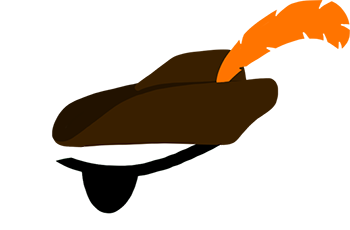
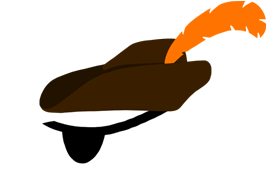
Lizard: Updated lizard graphics and animation

diff --git a/src/js/states/subgames/LizardJungleGame.js b/src/js/states/subgames/LizardJungleGame.js
@@ -349,6 +349,7 @@ LizardJungleGame.prototype.modeOutro = function () {
 	t.addCallback(this.nextRound, null, null, this);
 };
 
+
 /*MMMMMMMMMMMMMMMMMMMMMMMMMMMMMMMMMMMMMMMMMMMMMMMMMMMMMMMMMMMMMMMMMMMMMMMMMMM*/
 /*                        Lizard Jungle game objects                         */
 /*WWWWWWWWWWWWWWWWWWWWWWWWWWWWWWWWWWWWWWWWWWWWWWWWWWWWWWWWWWWWWWWWWWWWWWWWWWW*/
@@ -363,17 +364,18 @@ function LizardJungleLizard (x, y) {
 
 	this.body = game.add.sprite(48, 0, 'lizard', 'body', this);
 	this.head = game.add.group(this);
-	this.head.x = 90;
-	this.head.y = 75;
+	this.head.x = 130;
+	this.head.y = 60;
 
 	this.tounge = game.add.sprite(-5, 17, 'lizard', 'tounge', this.head);
 	this.tounge.anchor.set(1, 0.5);
 	this.tounge.width = 1;
 	this.tounge.height = 5;
-	this.jaw = game.add.sprite(35, -5, 'lizard', 'jaw', this.head);
-	this.jaw.anchor.set(1, 0);
-	this.forehead = game.add.sprite(190, 35, 'lizard', 'head', this.head);
+	this.jaw = game.add.sprite(20, 23, 'lizard', 'jaw', this.head);
+	this.jaw.anchor.set(1, 0.4);
+	this.forehead = game.add.sprite(125, 35, 'lizard', 'head', this.head);
 	this.forehead.anchor.set(1, 1);
+	this.tint = 0x00aa00;
 
 	this.origin = {
 		x: this.x + this.head.x + this.tounge.x,
@@ -382,7 +384,7 @@ function LizardJungleLizard (x, y) {
 	this.stuck = false;
 
 	this.talk = new TimelineMax({ repeat: -1, yoyo: true, paused: true });
-	this.talk.to(this.jaw, 0.2, { angle: -11 });
+	this.talk.to(this.jaw, 0.2, { angle: -6 });
 	this.talk.to(this.forehead, 0.2, { angle: 2 }, 0);
 
 	this.snore = game.add.text(this.head.x, this.head.y - 100, 'zzz', {
@@ -429,8 +431,8 @@ LizardJungleLizard.prototype.startShoot = function (hit) {
 		t.add(this.shootReturn());
 	}
 	t.to(this.head, 0.2, { rotation: game.physics.arcade.angleBetween(hit, this.origin) });
-	t.to(this.forehead, 0.5, { angle: 4 });
-	t.to(this.jaw, 0.5, { angle: -12 }, '-=0.5');
+	t.to(this.forehead, 0.5, { angle: 7 });
+	t.to(this.jaw, 0.5, { angle: -4 }, '-=0.5');
 	return t;
 };
 
